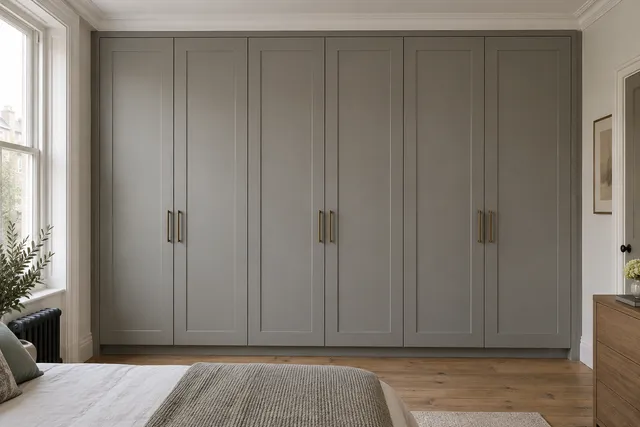
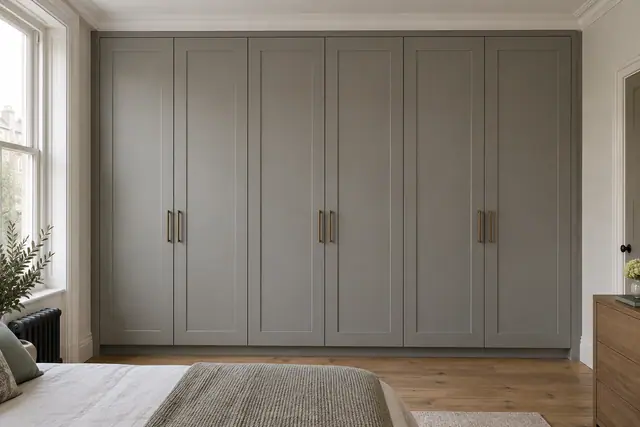
Camden: Denis's comments of 19 Nov (opening, pictures)
Denis's six comments on the review link, the four that touch this page:

- Pictures: no AI label (main's PRs #66 and #67, merged in the previous
  commit); the page ends with the illustrations line.
- The grey Shaker render: the framed picture that ran into the door frame is
  painted out (plain wall, filled from the wall above and below it).
- ssp-029 (the open white wardrobe photo) gives way to a new render, as asked:
  deep blue-grey flat doors, the centre pair open on an oak-effect interior.
  Figma node 39:2 (gpt-image-2.5-sunburst), made to the ops AI render protocol.
  Retouched: a second handle on each closed door beside the open pair, a
  blue-grey strip under the top infill over the open bay (the protocol's
  known fault), and four faint marks. Variants written with the variant
  script's own settings; manifest entry added by hand.
- The opening: it was the 14 Nov text, written to the old protocol before
  the newsroom playbook. Rewritten to the area rules' summary opening: what we
  take on, from the approved Camden Town base, then the terraces and Kaspar's
  "Walls, floors and ceilings are rarely straight". Not Primrose Hill's
  construction (swap test).

Four independent checks (copy rules with the playbook, facts, swap test, the
render protocol), then a recheck of the changed lines and the final render,
both passing. Changed on their findings: the appraisal named where it is
first used; the railway and Carreras line cut; "mansard" explained; the
[…]

Changed region(s): [[0.9062, 0.274, 0.9688, 0.5176]]

diff --git a/src/data/areas.ts b/src/data/areas.ts
@@ -133,11 +133,24 @@ export const AREAS: Area[] = [
         type: "Bookcases",
         alt: "White built-in bookcase in three bays with open shelves above six handleless cupboard doors, lit by two wall lights",
       },
+      /* 19 Nov 2026, Denis on the review link: "replace this image with a generated one" (it was
+         ssp-029, the white handleless wardrobe with one door open). Made in Figma the same day (file
+         d0AWnKDiTyYDbBrrCsE4NS, node 39:2, gpt-image-2.5-sunburst) to the ops AI render protocol;
+         small retouches, told to Kaspar on the card: a second handle on each closed door beside the
+         open pair was painted out (every door now has one handle, at its pair's centre); a blue-grey
+         strip under the top infill over the open bay became the oak top panel's edge, so the panel
+         meets the single infill (protocol section 4); four faint marks on the open doors and two on
+         the oak went. Checked by an independent pass against the protocol's section 5. */
       {
-        file: "/images/library/ssp-029.webp",
-        type: "Fitted wardrobes",
-        alt: "White handleless fitted wardrobe with one door open showing oak interior, chrome hanging rail, top shelf and lower shelves",
+        file: "/images/journal/camden-ai-blue-grey-open-wardrobes.webp",
+        type: "Blue-grey wardrobes with an oak-effect interior",
+        ai: true,
+        width: 1536,
+        height: 1024,
+        alt: "Six flat wardrobe doors in deep blue-grey run wall to wall in three pairs, with slim brushed-nickel bar handles where each closed pair meets. The centre pair stands open on an oak-effect interior: a top shelf, a hanging rail with shirts and jackets, and three drawers. Slim infills meet the flat ceiling and run to the floor at each end, with a recessed plinth beneath the doors. Daylight comes from a sash window on the left, and a panelled door stands to the right.",
       },
+      /* 19 Nov 2026, Denis: a framed picture on the wall ran into the door frame; it was painted
+         out of the render (plain wall, filled from the wall above and below it). */
       {
         file: "/images/journal/camden-ai-grey-shaker-wardrobes.webp",
         type: "Grey Shaker-style wardrobes",
